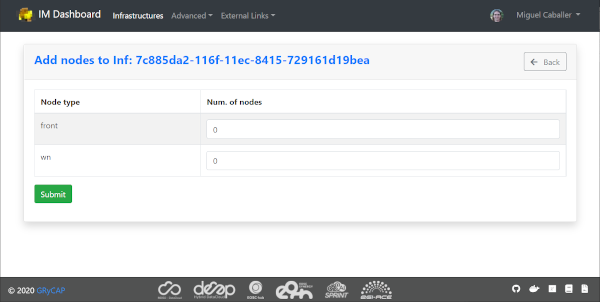
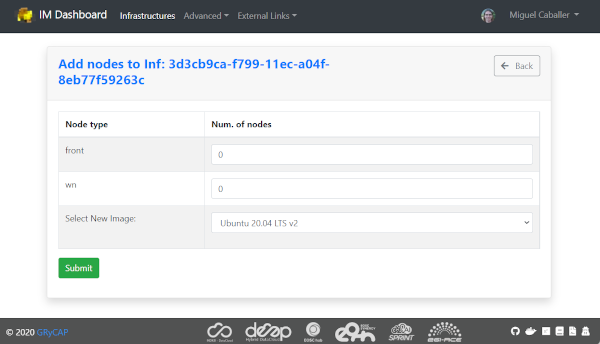
Add new change image to IM-Dashboard (#464)
* Add new change image to IM-Dashboard

diff --git a/content/en/users/compute/orchestration/im/dashboard/_index.md b/content/en/users/compute/orchestration/im/dashboard/_index.md
@@ -135,7 +135,10 @@ infrastructures:
 - Add nodes: The Add nodes action enables to add new VMs to the users'
   deployment. It will show the list of the different types of nodes currently
   deployed in the infrastructure and the user must set the number of nodes of
-  each type he wants to deploy.
+  each type he wants to deploy. It will also show a dropdown list with the
+  available base images. It will enable changing the base image used to
+  deploy the new nodes. In some cases it will be necessary because the original
+  one has been removed.
 
   ![Add nodes page](dash_add_nodes.png)
 
